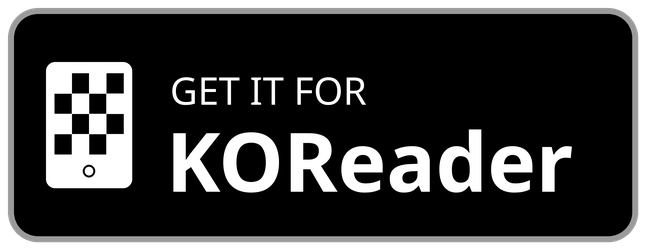
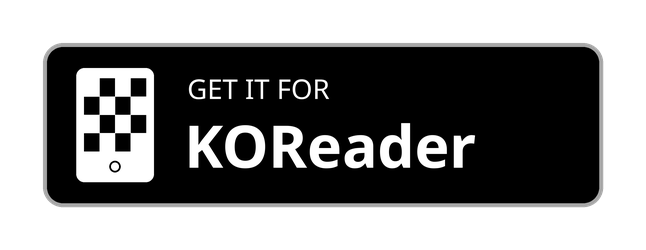
Badge: match the other badges' dimensions exactly
The three store badges share a 646x250 canvas with the button inset at
(41, 41) to (605, 209), a 4px border and a corner radius near 20. The
KOReader badge filled its canvas instead, so it rendered taller than
the rest of the row.

diff --git a/docs/images/badges/make-koreader-badge.py b/docs/images/badges/make-koreader-badge.py
@@ -1,9 +1,12 @@
 #!/usr/bin/env python3
 """Draws koreader.png, the download badge for the KOReader plugin.
 
-KOReader publishes no badge of its own, so this is original artwork in the
-shape of the Google Play, GitHub and F-Droid badges beside it: 646x250, a
-black rounded rectangle with a grey border, shown at height 64 in the README.
+KOReader publishes no badge of its own, so this is original artwork matching
+the Google Play, GitHub and F-Droid badges beside it in the README. Those
+three share a 646x250 canvas with the visible button inset at (41, 41) to
+(605, 209), a 4px #A6A6A6 border and a corner radius of about 20, so this one
+uses the same geometry and lines up with them at any height.
+
 The icon is an e-reader whose screen holds a chessboard.
 
     python3 docs/images/badges/make-koreader-badge.py
@@ -14,8 +17,10 @@ from pathlib import Path
 from PIL import Image, ImageDraw, ImageFont
 
 W, H = 646, 250
+BOX = (41, 41, 605, 209)  # the visible button, matching the other three badges
+RADIUS, BORDER = 20, 4
 SCALE = 4  # drawn large, then reduced, so the curves and the board stay clean
-BLACK, WHITE, BORDER = (0, 0, 0, 255), (255, 255, 255, 255), (154, 154, 154, 255)
+BLACK, WHITE, GREY = (0, 0, 0, 255), (255, 255, 255, 255), (166, 166, 166, 255)
 FONT_DIR = Path("/usr/share/fonts/google-noto")
 SMALL = FONT_DIR / "NotoSans-Regular.ttf"
 LARGE = FONT_DIR / "NotoSans-Bold.ttf"
@@ -23,11 +28,10 @@ LARGE = FONT_DIR / "NotoSans-Bold.ttf"
 
 def draw_reader(d, x, y, w, h):
     """An e-reader: a rounded body, a chessboard screen, a home button."""
-    r = h // 14
-    d.rounded_rectangle([x, y, x + w, y + h], radius=r, fill=WHITE)
-    bezel_x, bezel_top = w // 10, h // 11
-    sx0, sy0 = x + bezel_x, y + bezel_top
-    sx1, sy1 = x + w - bezel_x, y + h - bezel_top * 3
+    d.rounded_rectangle([x, y, x + w, y + h], radius=max(2, h // 14), fill=WHITE)
+    bezel_x, bezel_y = w // 10, h // 11
+    sx0, sy0 = x + bezel_x, y + bezel_y
+    sx1, sy1 = x + w - bezel_x, y + h - bezel_y * 3
     d.rectangle([sx0, sy0, sx1, sy1], fill=BLACK)
     # Four ranks and files are enough to read as a chessboard at this size.
     cells = 4
@@ -37,27 +41,34 @@ def draw_reader(d, x, y, w, h):
             if (row + col) % 2 == 0:
                 d.rectangle([sx0 + col * cw, sy0 + row * ch,
                              sx0 + (col + 1) * cw, sy0 + (row + 1) * ch], fill=WHITE)
-    cx, cy = x + w / 2, y + h - bezel_top * 1.5
-    rr = bezel_top * 0.55
-    d.ellipse([cx - rr, cy - rr, cx + rr, cy + rr], outline=BLACK, width=max(2, int(rr / 3)))
+    cx, cy = x + w / 2, y + h - bezel_y * 1.5
+    r = bezel_y * 0.55
+    d.ellipse([cx - r, cy - r, cx + r, cy + r], outline=BLACK, width=max(2, int(r / 3)))
 
 
 def main():
-    img = Image.new("RGBA", (W * SCALE, H * SCALE), (0, 0, 0, 0))
-    d = ImageDraw.Draw(img)
     s = SCALE
+    img = Image.new("RGBA", (W * s, H * s), (0, 0, 0, 0))
+    d = ImageDraw.Draw(img)
 
-    pad, radius, border = 8 * s, 30 * s, 6 * s
-    d.rounded_rectangle([pad, pad, W * s - pad, H * s - pad],
-                        radius=radius, fill=BLACK, outline=BORDER, width=border)
+    x0, y0, x1, y1 = (v * s for v in BOX)
+    box_h = y1 - y0
+    # The outline straddles the path, so inset it by half its width to keep the
+    # ink inside BOX and the badge the same size as the other three.
+    half = BORDER * s // 2
+    d.rounded_rectangle([x0 + half, y0 + half, x1 - half, y1 - half],
+                        radius=RADIUS * s, fill=BLACK, outline=GREY, width=BORDER * s)
 
-    draw_reader(d, 46 * s, 62 * s, 86 * s, 126 * s)
+    icon_h = int(box_h * 0.68)
+    icon_w = int(icon_h * 0.68)
+    icon_x = x0 + int(box_h * 0.21)
+    draw_reader(d, icon_x, y0 + (box_h - icon_h) // 2, icon_w, icon_h)
 
-    small = ImageFont.truetype(str(SMALL), 38 * s)
-    large = ImageFont.truetype(str(LARGE), 82 * s)
-    text_x = 170 * s
-    d.text((text_x, 64 * s), "GET IT FOR", font=small, fill=WHITE)
-    d.text((text_x - 4 * s, 104 * s), "KOReader", font=large, fill=WHITE)
+    small = ImageFont.truetype(str(SMALL), int(box_h * 0.165))
+    large = ImageFont.truetype(str(LARGE), int(box_h * 0.35))
+    text_x = icon_x + icon_w + int(box_h * 0.20)
+    d.text((text_x, y0 + box_h * 0.17), "GET IT FOR", font=small, fill=WHITE)
+    d.text((text_x - 3 * s, y0 + box_h * 0.38), "KOReader", font=large, fill=WHITE)
 
     out = Path(__file__).with_name("koreader.png")
     img.resize((W, H), Image.LANCZOS).save(out, optimize=True)
